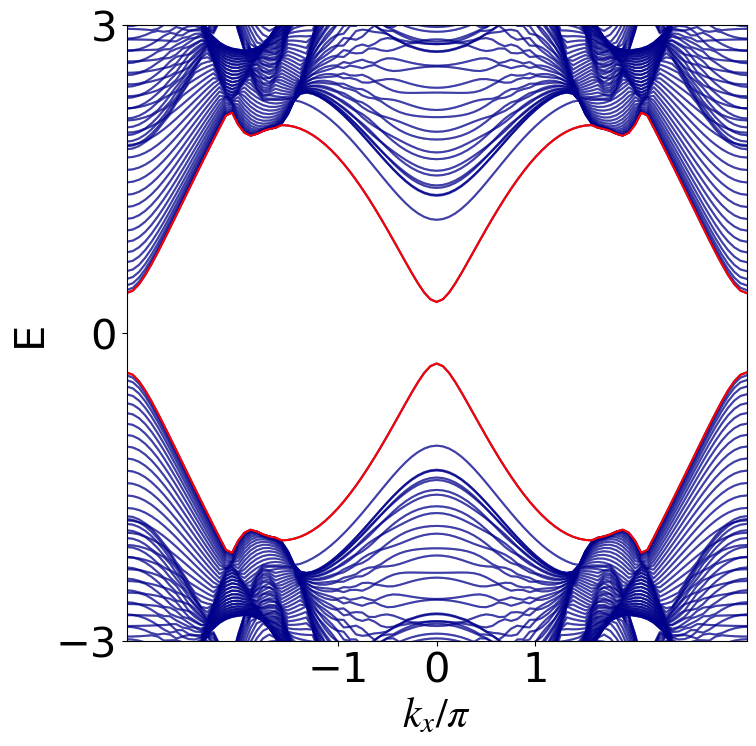
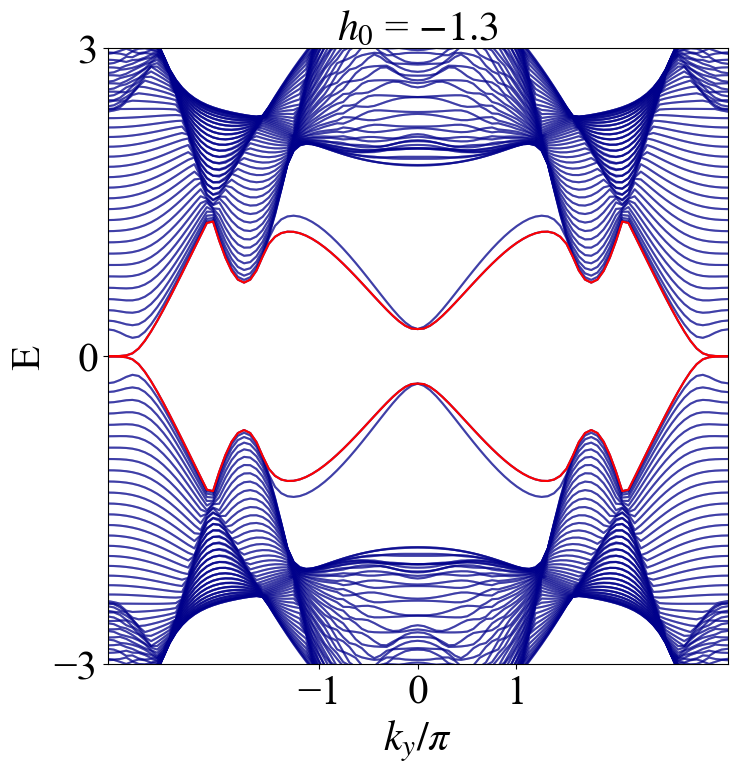
fix

diff --git a/_posts/2022-05-23-BHZ-Cylinder-Julia.md b/_posts/2022-05-23-BHZ-Cylinder-Julia.md
@@ -199,7 +199,7 @@ end
     klist = []
     for i1 in -kn:kn
         kx = i1*pi/kn
-        append!(klist,kx)
+        append!(klist,kx/pi)
         ham1 = openx(h0,yn,kx)
         ham2 = openy(h0,yn,kx)
         val1 = eigvals(ham1)
@@ -274,7 +274,7 @@ def scatterplot1(cont):
     plt.ylim(-3,3)
     plt.xlabel(r'$k_y/\pi$',font2)
     plt.ylabel("E",font2)
-    tit = "$h_0$=" + str(cont)
+    tit = "$h_0$ = " + "$" + str(cont) + "$"
     plt.title(tit,font2)
     #plt.yticks(fontproperties='Times New Roman', size = 15)
     #plt.xticks(fontproperties='Times New Roman', size = 15)
@@ -314,7 +314,7 @@ def scatterplot2(cont):
     plt.ylim(-3,3)
     plt.xlabel("$k_x/\pi$",font2)
     plt.ylabel("E",font2)
-    tit = "$h_0$=" + str(cont)
+    tit = "$h_0$ = " + "$" + str(cont) + "$"
     plt.title(tit,font2)
     #plt.yticks(fontproperties='Times New Roman', size = 15)
     #plt.xticks(fontproperties='Times New Roman', size = 15)
